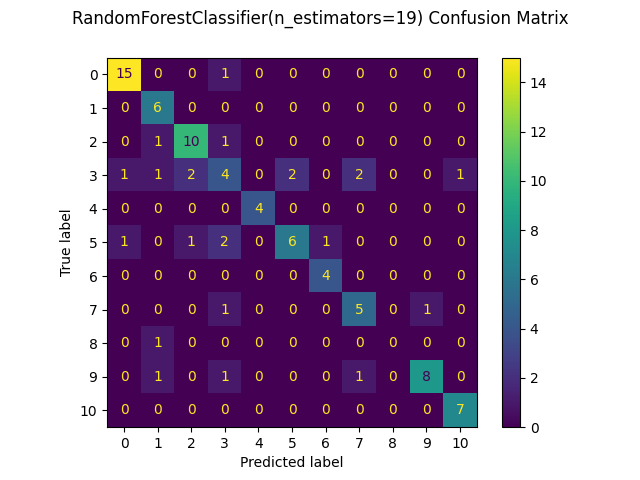
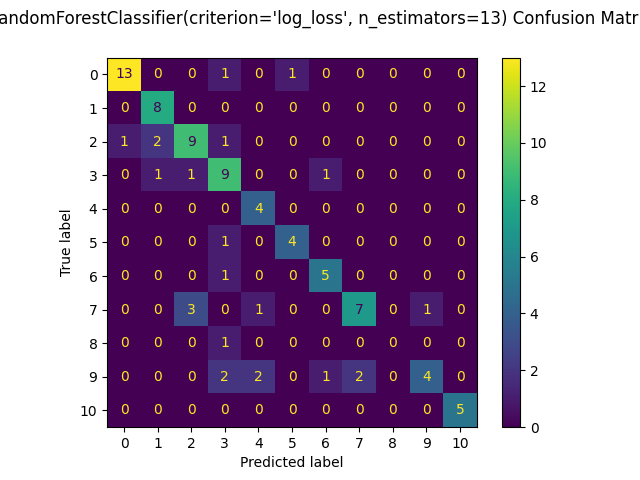
Last (si spera)

diff --git a/data.py b/data.py
@@ -21,12 +21,11 @@ print(f"-----[0: data imoported]-----")
 for i in range(len(X)):
     brightest = X[i].max()
     threshold = brightest // 2
-    X[i] = np.where(X[i] > 178, X[i], 0)
+    X[i] = np.where(X[i] > 178, 255, 0)
 
 #plt.imshow(X[6000], cmap = "Greys")
 #plt.show()
 
-X = X.reshape(X.shape[0], 576)
 X = (X/255).astype('float32')
 
 
@@ -58,23 +57,19 @@ print(f"{len(X_eight)}")
 
 # Train, val and test separation
 
-#seed = 547845
+seed = 547845
 
-reduction = 0.01
-X, _, y, __ = train_test_split(X, y, train_size=reduction) #, random_state=seed)
-print(f"Size of toy problem: {len(X), len(y)}")
-X_eight, _ , Y_eight, __ = train_test_split(X_eight, Y_eight, train_size = reduction)
 
 
 train_to_valtest = 0.70
 val_to_test = 0.5
-X_train, X_val, Y_train, Y_val = train_test_split(X, y, train_size=train_to_valtest) #, random_state=seed)
-X_val, X_test, Y_val, Y_test = train_test_split(X_val, Y_val, train_size=val_to_test) #, random_state=seed)
+X_train, X_val, Y_train, Y_val = train_test_split(X, y, train_size=train_to_valtest, random_state=seed)
+X_val, X_test, Y_val, Y_test = train_test_split(X_val, Y_val, train_size=val_to_test, random_state=seed)
 
 
 y = y + Y_eight
-eights_x_train, eights_x_valtest, eights_y_train, eights_y_valtest = train_test_split(X_eight, Y_eight, train_size = train_to_valtest)
-eights_x_val, eights_x_test, eights_y_val, eights_y_test = train_test_split(eights_x_valtest, eights_y_valtest, train_size = val_to_test)
+eights_x_train, eights_x_valtest, eights_y_train, eights_y_valtest = train_test_split(X_eight, Y_eight, train_size = train_to_valtest, random_state=seed)
+eights_x_val, eights_x_test, eights_y_val, eights_y_test = train_test_split(eights_x_valtest, eights_y_valtest, train_size = val_to_test, random_state=seed)
 
 X_train.extend(eights_x_train)
 Y_train.extend(eights_y_train)
@@ -205,7 +200,7 @@ else:
 
 predictions = predictt(winner[0], test=True)
 ut.printConfMatx(model[0], predictions, Y_test, False)
-print(f"   {winner[0]} test accuracy is :  ")
+print(f"   {winner} test accuracy is :  ")
 test_acc = ut.accuracy(predictions, Y_test)
 print(f"{test_acc}")
 
